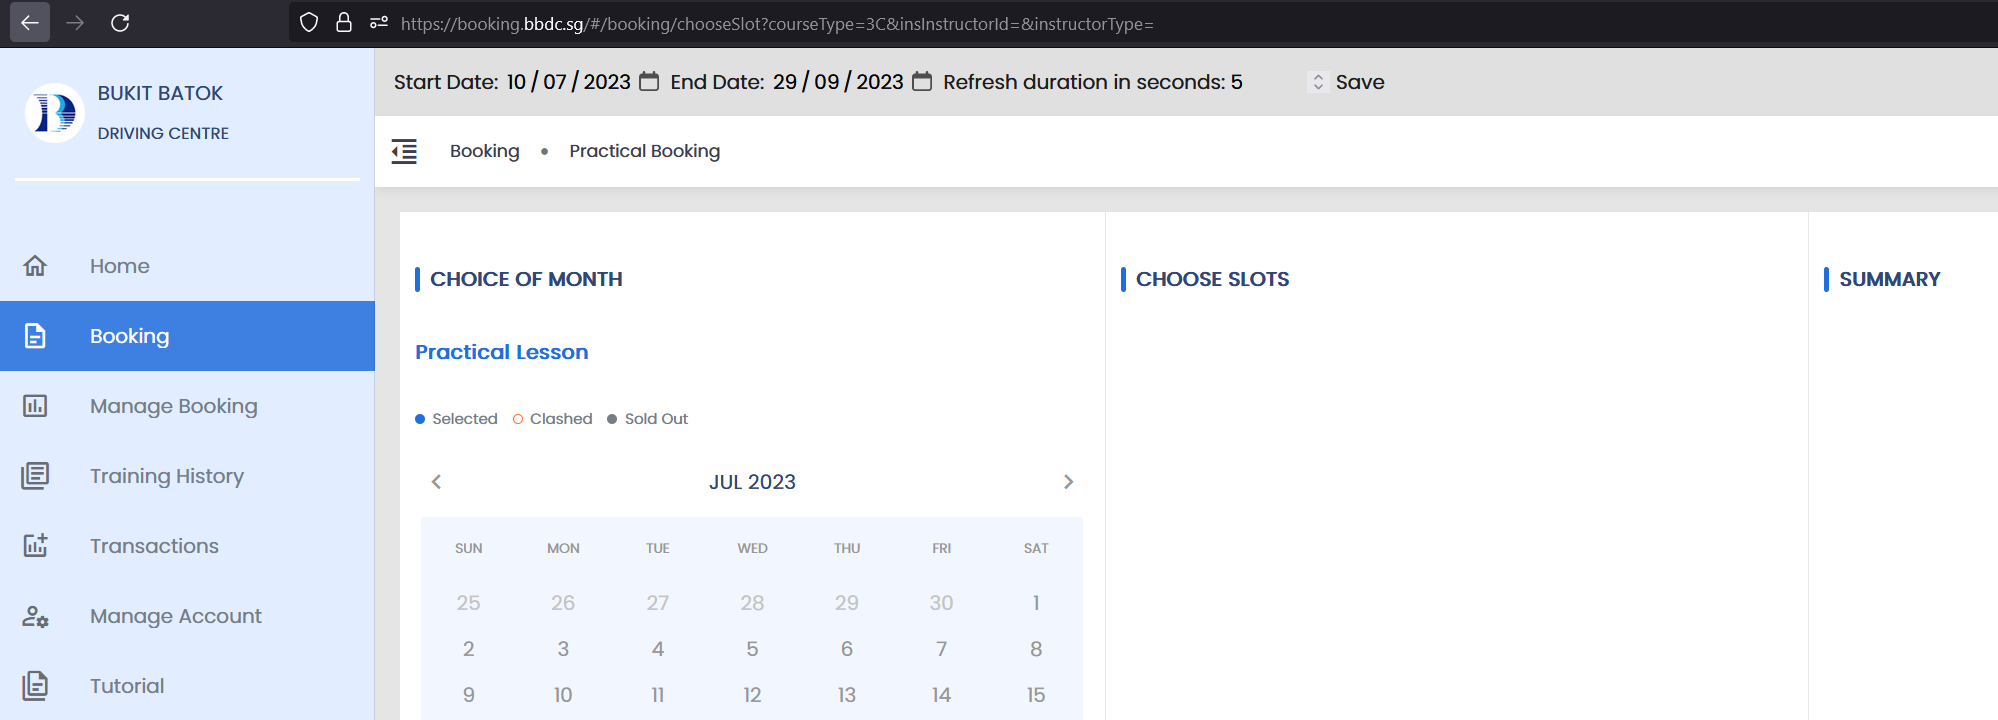
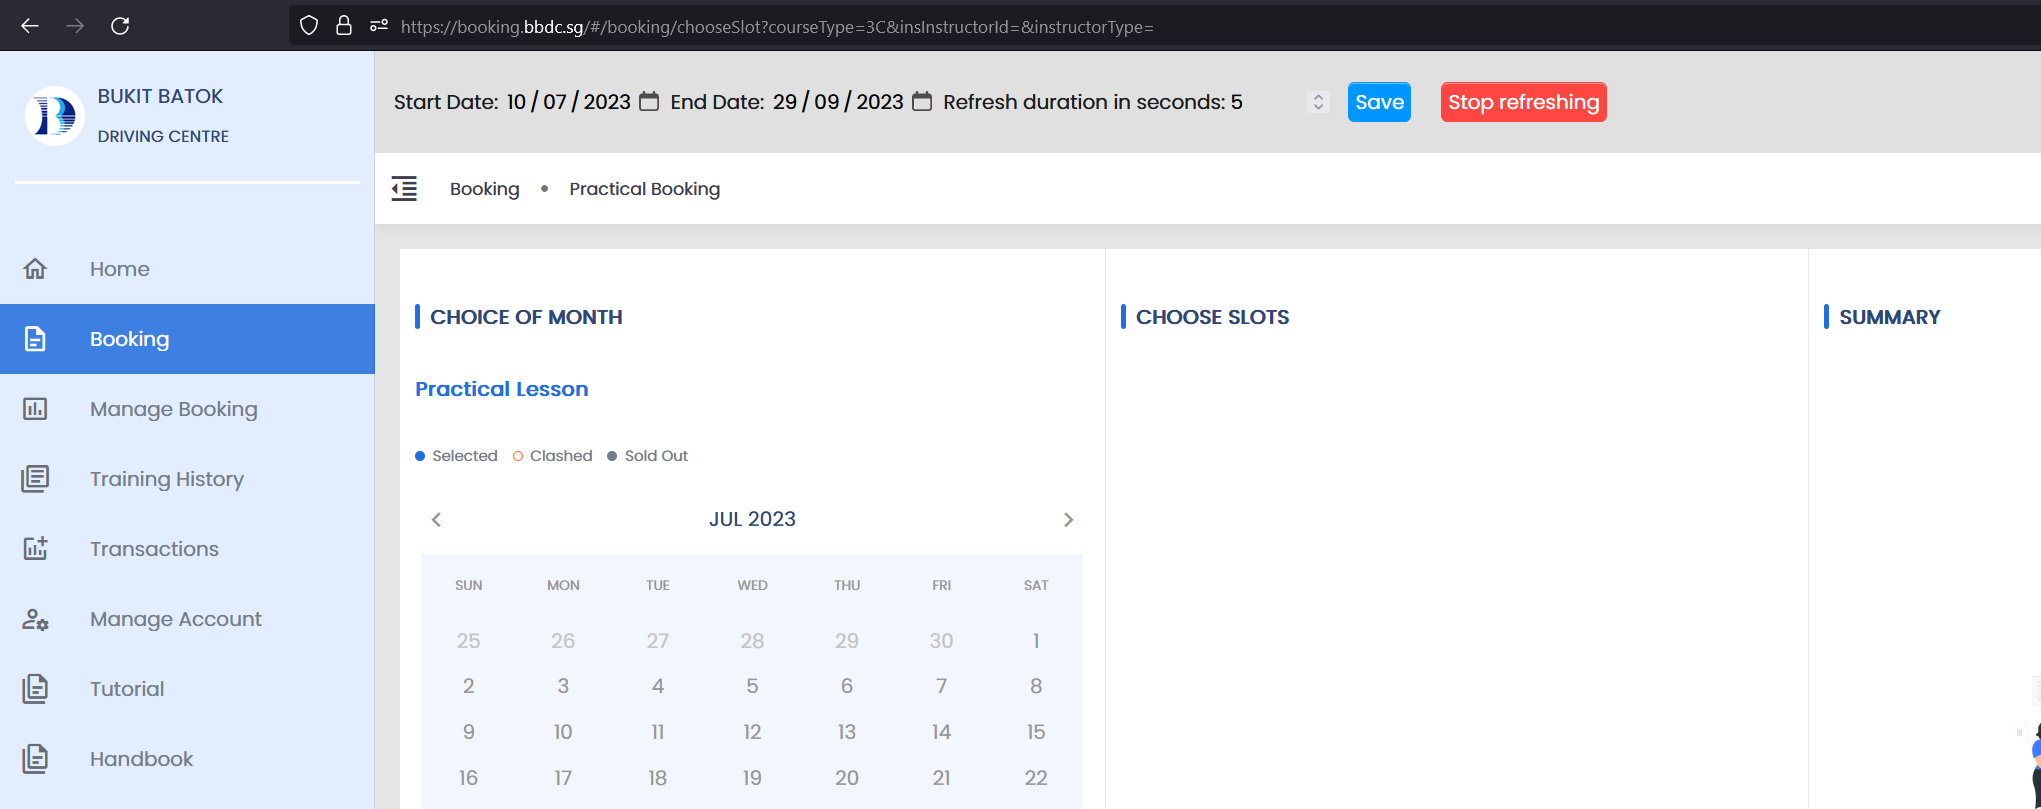
MISC
BBDC booking
- v1.1.1
- Allow user to stop refreshing the page (useful if want to book slots)
- Beautified the userPreference's Save button
- Updated README

diff --git a/BBDC Booking/BBDC booking.user.js b/BBDC Booking/BBDC booking.user.js
@@ -1,9 +1,9 @@
 // ==UserScript==
 // @name        BBDC booking
 // @author      lamecarrot
-// @version    	1.1.0
+// @version    	1.1.1
 // @namespace   https://lamecarrot.wordpress.com/
-// @description Notify user via browser alert if there are slots available for booking. User maybe choose the date range they are interested in.
+// @description Notify user via browser alert if there are slots available for booking. User maybe choose the date range they are interested in (months only for now). User may also choose to stop refreshing.
 // @match		*://*.booking.bbdc.sg/*
 // ==/UserScript==
 
@@ -31,11 +31,11 @@
 
     // Create or restore user preference
     function createOrRestoreUserPreference() {
-        var dateRangeDiv = document.createElement('div');
-        dateRangeDiv.id = 'userPreference';
-        dateRangeDiv.style.background = '#e0e0e0';
-        dateRangeDiv.style.padding = '20px';
-        dateRangeDiv.innerHTML = `
+        var userPreferenceDiv = document.createElement('div');
+        userPreferenceDiv.id = 'userPreference';
+        userPreferenceDiv.style.background = '#e0e0e0';
+        userPreferenceDiv.style.padding = '15px';
+        userPreferenceDiv.innerHTML = `
             <label for="start">Start Date:</label>
             <input type="date" id="start" name="start">
             <label for="end">End Date:</label>
@@ -43,16 +43,40 @@
             <label for="end">Refresh duration in seconds:</label>
             <input type="number" id="refreshduration" name="refreshduration" min="5" value=5 style="width: 5em">
             <button id="save">Save</button>
+            <button id="stopRefresh">Stop refreshing</button>
         `;
 
         // To place this at the top of the page, we will need to find the right element without page's own CSS messes things up
         var containerDiv = document.querySelector('.container.container--fluid');
         if (containerDiv) {
-            containerDiv.insertBefore(dateRangeDiv, containerDiv.firstChild);
+            containerDiv.insertBefore(userPreferenceDiv, containerDiv.firstChild);
         }
 
         var saveButton = document.getElementById('save');
         saveButton.addEventListener('click', saveDateRange);
+        // Save button's design
+        saveButton.style.margin = "10px";
+        saveButton.style.padding = "3px .3em";
+        saveButton.style.border = "1px solid transparent";
+        saveButton.style.borderRadius = "5px";
+        saveButton.style.color = "#fff";
+        saveButton.style.backgroundColor = "#0095ff";
+        saveButton.style.display = "inline-block";
+        saveButton.style.outline = "none";
+        saveButton.style.boxShadow = "rgba(255, 255, 255, .4) 0 1px 0 0 inset";
+
+        var stopRefreshButton = document.getElementById('stopRefresh');
+        stopRefreshButton.addEventListener('click', stopRefreshing);
+        // Stop refresing's button's design
+        stopRefreshButton.style.margin = "10px";
+        stopRefreshButton.style.padding = "3px .3em";
+        stopRefreshButton.style.border = "1px solid transparent";
+        stopRefreshButton.style.borderRadius = "5px";
+        stopRefreshButton.style.color = "#fff";
+        stopRefreshButton.style.backgroundColor = "#FF4742";
+        stopRefreshButton.style.display = "inline-block";
+        stopRefreshButton.style.outline = "none";
+        stopRefreshButton.style.boxShadow = "rgba(255, 255, 255, .4) 0 1px 0 0 inset";
 
         // Retrieve and populate the saved date range
         var savedData = localStorage.getItem('user_preference');
@@ -88,6 +112,21 @@
         reload_duration = parseInt(refreshDurationInput.value) * 1000;
         clearTimeout(reloadTimeoutId);
         reloadTimeoutId = setTimeout(reloadPage, reload_duration);
+
+        // Enable stop refresh button
+        var stopRefreshButton = document.getElementById('stopRefresh');
+        stopRefreshButton.disabled = false;
+        stopRefreshButton.style.backgroundColor = "#FF4742";
+    }
+
+    // Stop all timeout that leads to refreshing the page
+    function stopRefreshing() {
+        clearTimeout(checkSlotsAndNotifyTimeoutId);
+        clearTimeout(reloadTimeoutId);
+        // Disable button
+        var stopRefreshButton = document.getElementById('stopRefresh');
+        stopRefreshButton.disabled = true;
+        stopRefreshButton.style.backgroundColor = "#B30000";
     }
 
     // Show notification

diff --git a/BBDC Booking/README.md b/BBDC Booking/README.md
@@ -23,7 +23,9 @@ As this is a UserScript, it needs browser extension such as TamperMonkey, https:
 4. Once enabled, refresh the page by pressing F5.
 5. In the left end of your URL search bar, press the pop-up bubble and allow notification.
 6. If there are slots available, notification should appear on the right on your computer.
-7. Disable the script by clicking on "Enabled" to book any slots you want to prevent the script from refreshing.
+7. Press the "Stop refreshing" button before booking any slots.
 8. You may select the date range that you would like to be notified of any available slots.
+9. You may also change the refresh rate.
+   * Minimum is 5 seconds to prevent server from timeout us.
 
-<p align="center"><img src="README_IMAGES/userPreference.png" width="400"></p>
+<p align="center"><img src="README_IMAGES/userPreference.PNG" width="600"></p>
